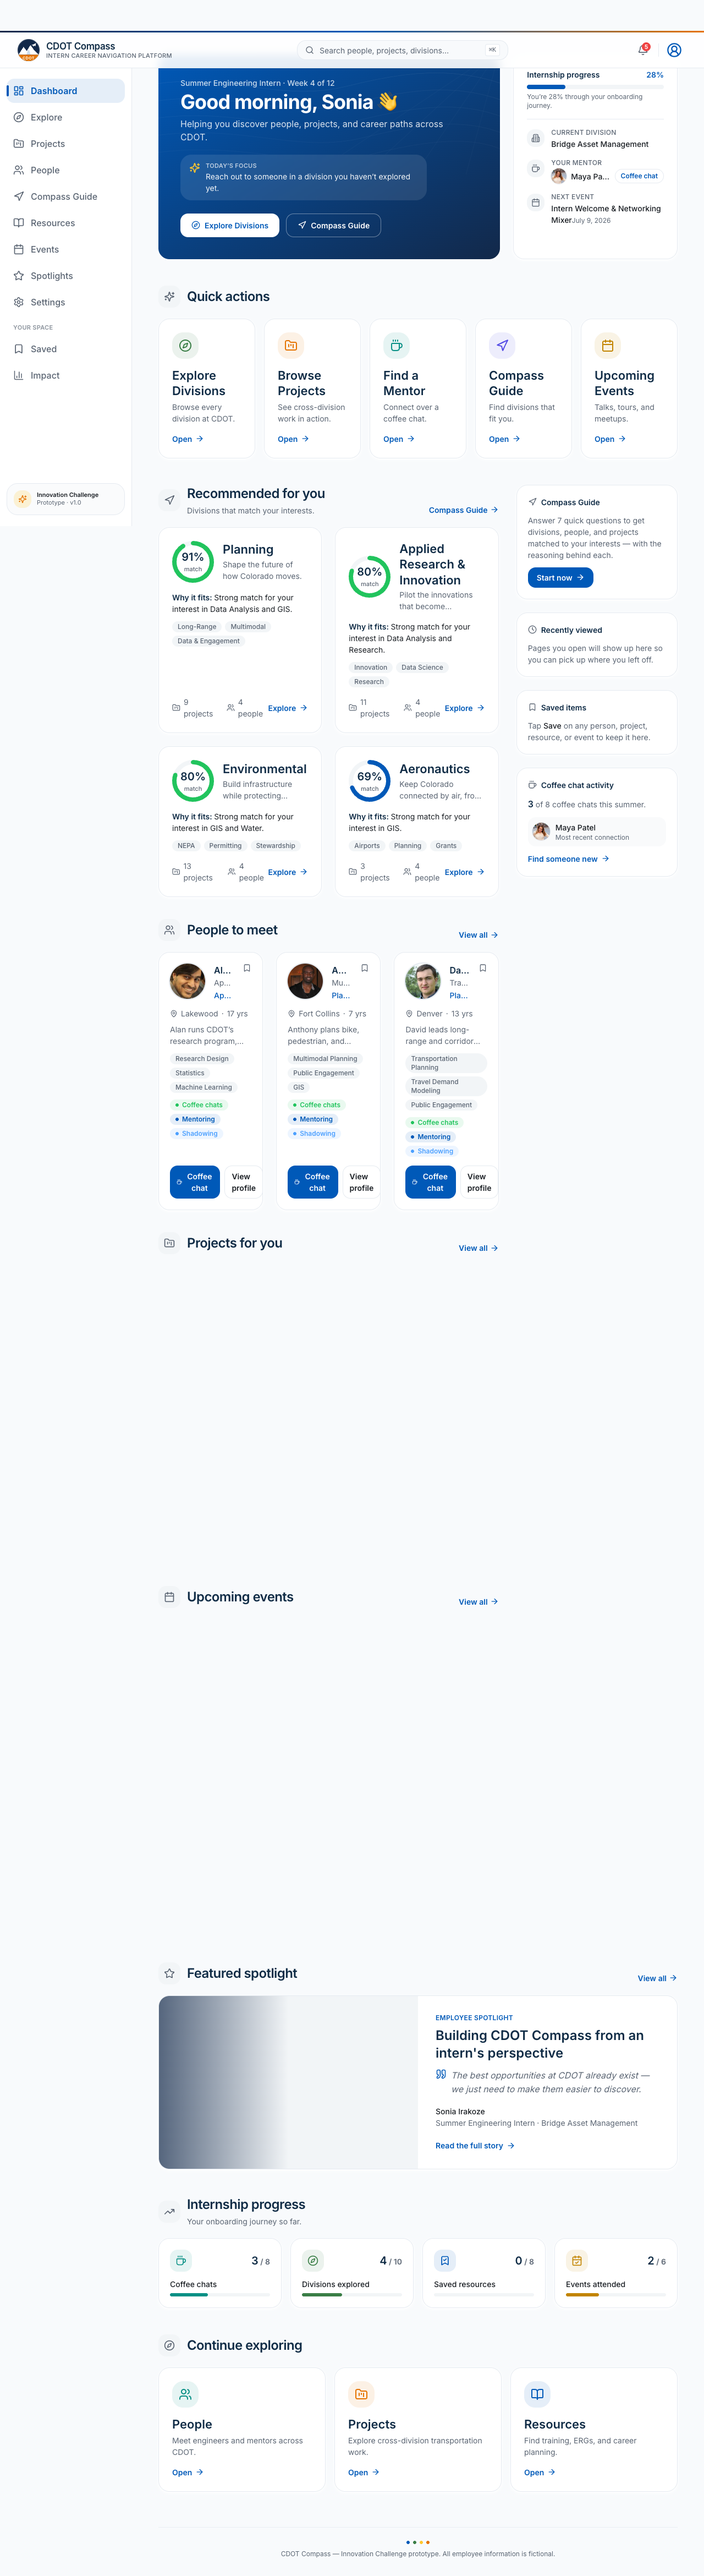
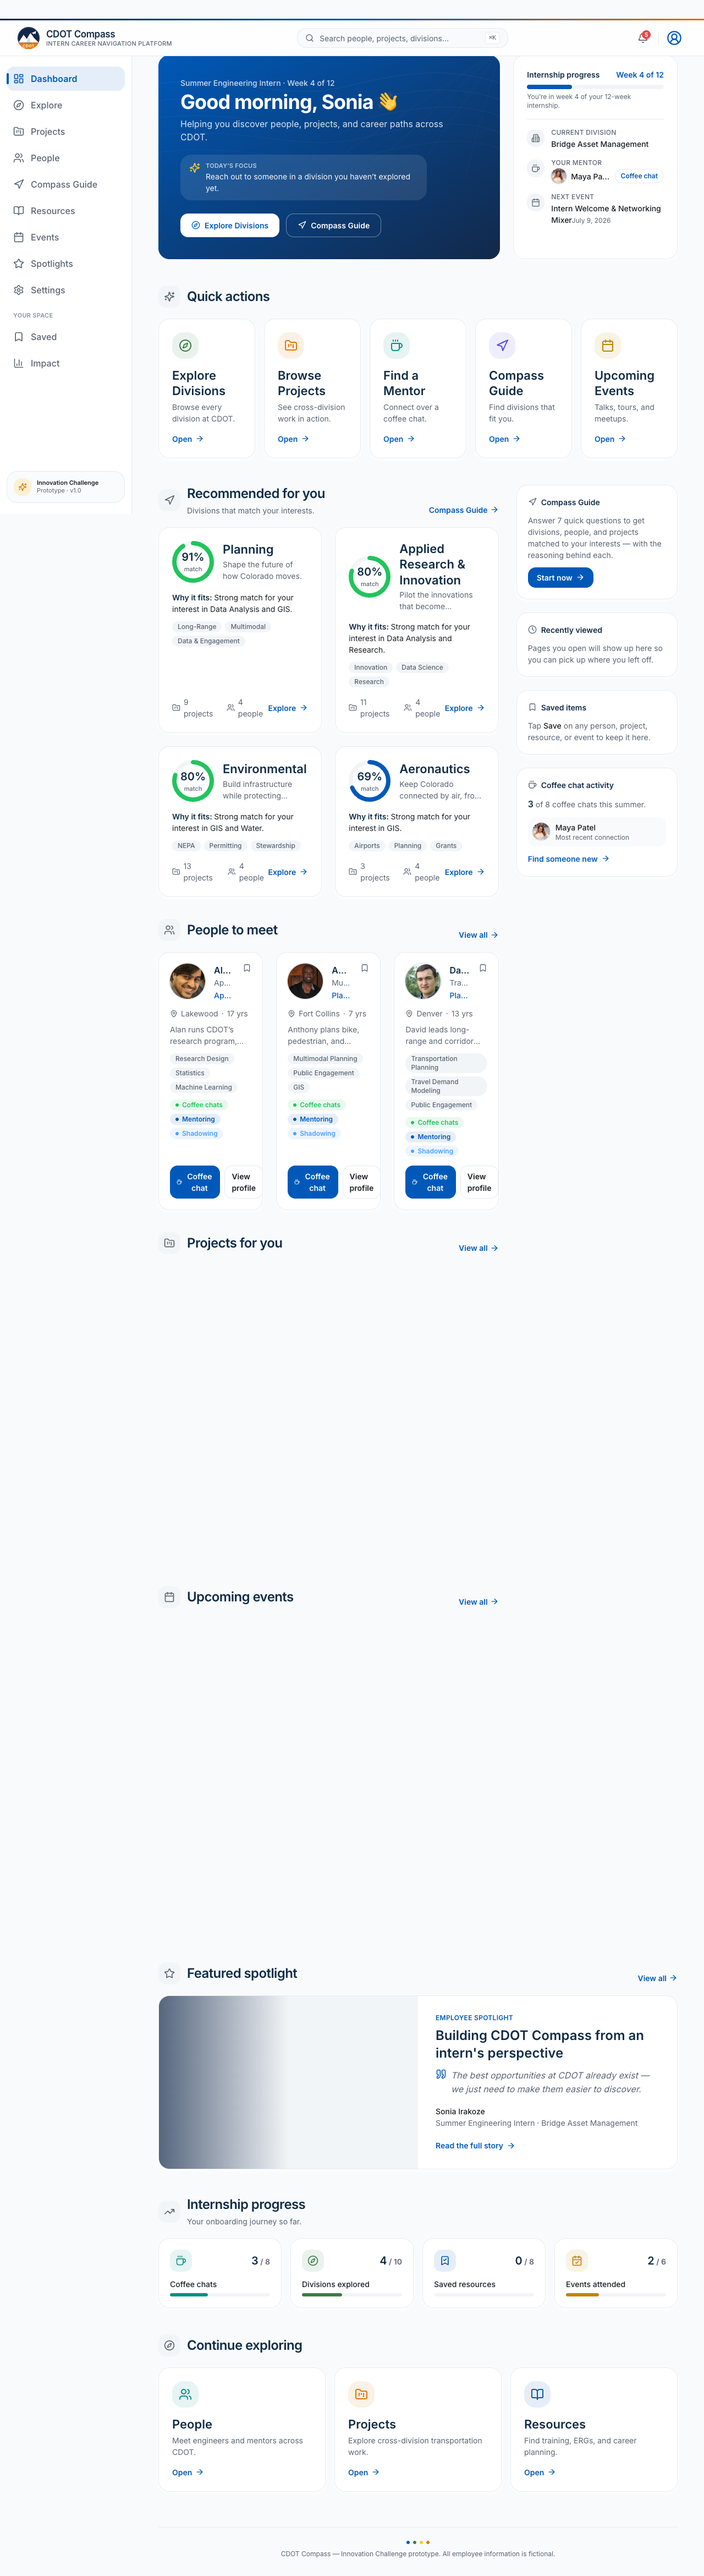
Dashboard: show internship progress as 'Week 4 of 12' instead of a percentage

diff --git a/src/components/dashboard/WelcomeHero.tsx b/src/components/dashboard/WelcomeHero.tsx
@@ -3,7 +3,7 @@ import { motion } from 'framer-motion'
 import { Building2, Calendar, Coffee, Compass, Navigation, Sparkles } from 'lucide-react'
 import { reveal } from '@/animations/variants'
 import { HeroPattern } from '@/components/common/HeroPattern'
-import { INTERN_PROFILE, getOverallProgress } from '@/config/internProfile'
+import { INTERN_PROFILE } from '@/config/internProfile'
 import {
   getDepartmentBySlug,
   getEmployeeById,
@@ -12,7 +12,6 @@ import {
 } from '@/utils/data'
 import { formatEventDate } from '@/utils/date'
 import { useGreeting } from '@/hooks/useGreeting'
-import { useBookmarks } from '@/hooks/useBookmarks'
 import { useDemoAction } from '@/hooks/useDemoAction'
 
 /**
@@ -21,14 +20,13 @@ import { useDemoAction } from '@/hooks/useDemoAction'
  */
 export function WelcomeHero() {
   const greeting = useGreeting()
-  const { bookmarks } = useBookmarks()
   const { requestCoffeeChat } = useDemoAction()
 
   const division = getDepartmentBySlug(INTERN_PROFILE.currentDivision)
   const mentor = getEmployeeById(INTERN_PROFILE.mentorId)
   const today = new Date().toISOString().slice(0, 10)
   const nextEvent = getUpcomingEvents(today)[0] ?? getEventsSorted()[0]
-  const overall = getOverallProgress(bookmarks.length)
+  const weekPct = Math.round((INTERN_PROFILE.weekNumber / INTERN_PROFILE.programWeeks) * 100)
 
   return (
     <motion.section
@@ -83,16 +81,19 @@ export function WelcomeHero() {
         <div>
           <div className="flex items-center justify-between">
             <span className="text-small font-semibold text-heading">Internship progress</span>
-            <span className="text-small font-semibold text-primary">{overall}%</span>
+            <span className="text-small font-semibold text-primary">
+              Week {INTERN_PROFILE.weekNumber} of {INTERN_PROFILE.programWeeks}
+            </span>
           </div>
           <div className="mt-2 h-2 w-full overflow-hidden rounded-full bg-muted">
             <div
               className="h-full rounded-full bg-primary transition-all"
-              style={{ width: `${overall}%` }}
+              style={{ width: `${weekPct}%` }}
             />
           </div>
           <p className="mt-1.5 text-xs text-muted-foreground">
-            You’re {overall}% through your onboarding journey.
+            You’re in week {INTERN_PROFILE.weekNumber} of your {INTERN_PROFILE.programWeeks}-week
+            internship.
           </p>
         </div>
 
